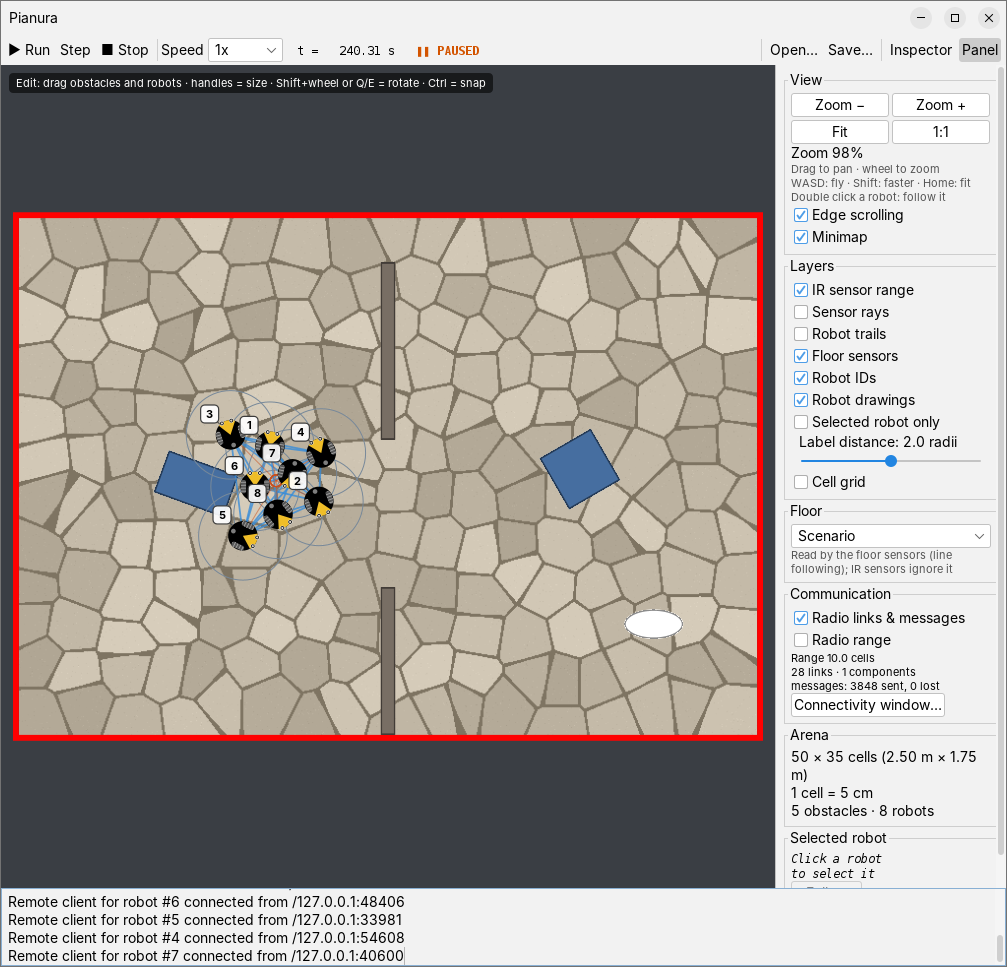
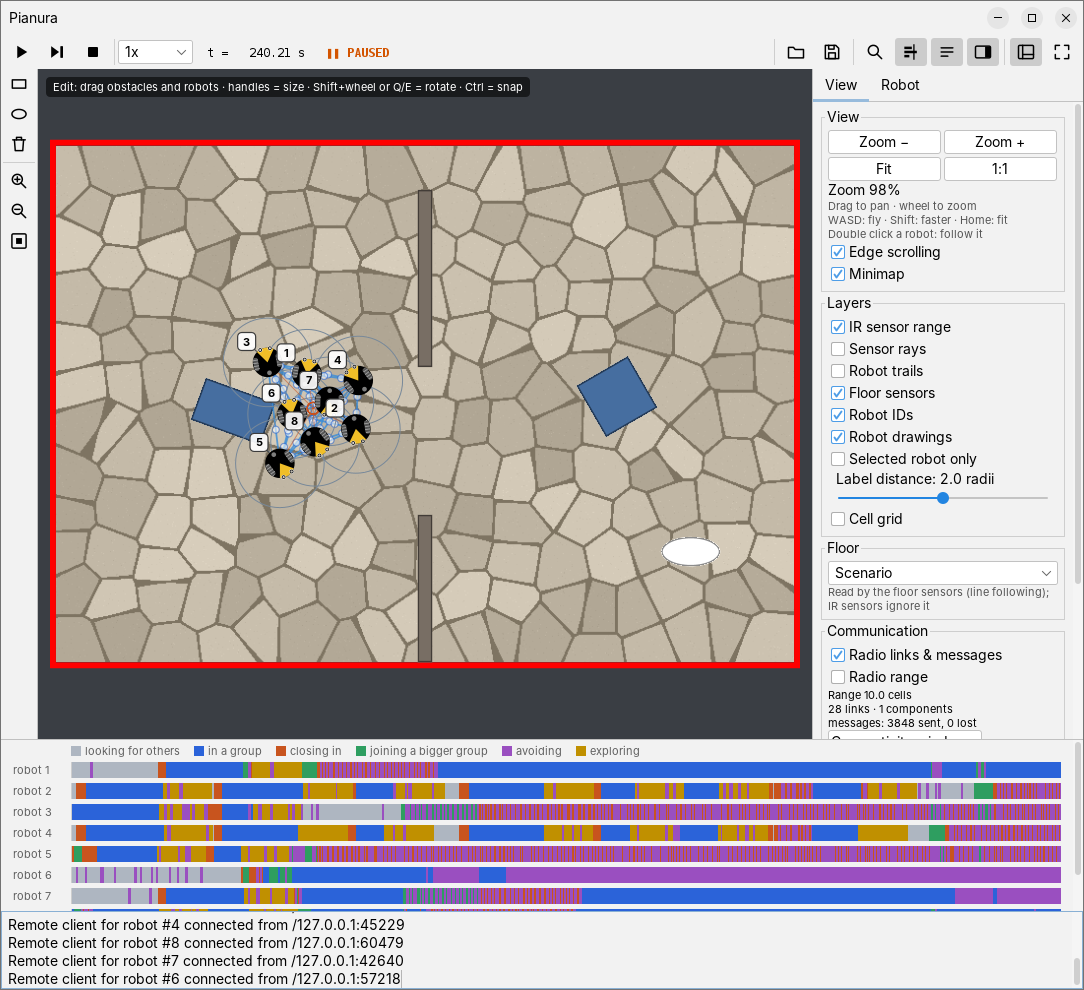
docs: the window's views and the start screen, new screenshots
README: Quick start with the start screen, a new section on the window
(icons, Studio and Focus views, timeline), scene files and the sandbox;
examples/README: running, and the sandbox row. Screenshots taken again
with the new window, plus start.png, studio.png and focus.png.

diff --git a/README.md b/README.md
@@ -71,17 +71,21 @@ cd pianura-sim
 ./gradlew run
 ```
 
-This opens the example `obstacles`: nine robots avoiding rectangular and oval obstacles.
-Examples open paused: arrange the scene if you like, then press **Run** (or Space).
+This opens the start screen: the scenes and examples you opened last, your favourites, all the
+examples, and the scene files of a folder of yours. Click one to open it; the **Home** button
+of a simulation brings you back. Simulations open paused: arrange the scene if you like, then
+press **Run** (or Space).
 
-To run another example, pass its name:
+![The start screen: recent items, favourites, examples, my scenes](docs/img/start.png)
+
+To start one example directly, pass its name:
 
 ```bash
 ./gradlew run -Pexample=braitenberg
 ```
 
 The available examples are `timedmotion`, `obstacles`, `rooms`, `linefollowing`, `remote`,
-`radio`, `largemap`, `braitenberg`, `planning` and `brains`. [`examples/README.md`](examples/README.md) says what
+`radio`, `largemap`, `braitenberg`, `planning`, `brains` and `sandbox`. [`examples/README.md`](examples/README.md) says what
 each one shows, with screenshots; the controllers they use are described in
 [`algorithms/README.md`](algorithms/README.md).
 
@@ -101,12 +105,38 @@ pianura-<version>.jar` (Java 21 or later, nothing else). To build it yourself:
 
 ```bash
 ./gradlew :examples:runnableJar          # writes build/pianura.jar (about 1.3 MB)
-java -jar build/pianura.jar              # a small window to pick an example
+java -jar build/pianura.jar              # the start screen
 java -jar build/pianura.jar planning     # one example directly; --list prints them all
 ```
 
 The jar holds Pianura, the algorithms, the examples and FlatLaf; `-Dpianura.laf=...` works
 here too (`java -Dpianura.laf=flat-dark -jar build/pianura.jar`).
+
+---
+
+## The window
+
+The buttons carry icons; their names and keyboard shortcuts appear when the pointer rests on
+them. The same simulation can be shown in two views, switched from the right end of the
+toolbar or with **F**:
+
+- **Studio**, to build and tune. Around the arena: the toolbar (run or pause with Space, step
+  with the right arrow, stop, speed, time; open and save a scene), tools on the left to add and
+  delete obstacles and to zoom, a side panel with the view options and the selected robot
+  (state, body, watched values), and at the bottom the timeline and the log. Each part can be
+  hidden from the toolbar.
+- **Focus**, to show. The arena takes the whole window and the controls float over it: run,
+  step and speed at the bottom, time at the top left, layers at the top right, a card that
+  follows the selected robot. `sim.setCaption("...")` adds a sentence that explains what is
+  going on, and `sim.setView(WorkspaceView.FOCUS)` starts in this view. **Esc** comes back.
+
+The **timeline** gives a lane to every robot that declares what it is doing with
+`robot.inspector().state("searching")`: coloured by state, from the start to now, it shows at a
+glance what each robot did and when. A click on a lane selects the robot.
+
+![The Studio view on the planning example: tools, the robot's panel, the timeline](docs/img/studio.png)
+
+![The Focus view: the arena and floating controls, with a caption](docs/img/focus.png)
 
 ---
 
@@ -288,9 +318,11 @@ public class Main {
 ### Scene files
 
 A scene is the stage without the actors: arena size and scale, obstacles, and where each
-robot stands (by id). Arrange it with the mouse, then **Save…** in the toolbar (Ctrl+S)
-writes it to a JSON file; **Open…** (Ctrl+O) loads one back, before the start or while
-paused, replacing the obstacles and moving the robots it lists. The file is short and can be
+robot stands (by id). Arrange it with the mouse (the tools on the left add and delete
+obstacles), then **Save** in the toolbar (Ctrl+S) writes it to a JSON file; **Open** (Ctrl+O)
+loads one back, before the start or while paused, replacing the obstacles and moving the robots
+it lists. The start screen lists the scenes saved and opened last, and opens a scene file in
+the example `sandbox`, with a robot that wanders wherever the file puts one. The file is short and can be
 edited by hand:
 
 ```json

diff --git a/examples/README.md b/examples/README.md
@@ -9,17 +9,18 @@ obstacles, robots) plus a `Main` that starts it. The robot controllers are in
 From the repository root:
 
 ```bash
-./gradlew run                       # obstacles, the default demo
-./gradlew run -Pexample=braitenberg # any other example, by name
+./gradlew run                       # the start screen: recent, favourites, all the examples
+./gradlew run -Pexample=braitenberg # one example directly, by name
 ```
 
-An unknown name stops the build with the list of the available ones. The same examples are
-in the runnable jar: `./gradlew :examples:runnableJar`, then `java -jar build/pianura.jar`
-opens a window to pick one (`java -jar build/pianura.jar <name>` starts it directly). A new
-example needs its line in `Launcher.EXAMPLES` too; a test checks it. Examples open paused:
-arrange the scene if you like, then press **Run** (or Space). **Save…** (Ctrl+S) keeps the
-arrangement in a file and **Open…** (Ctrl+O) brings it back, also in a later run of the same
-example; see [Scene files](../README.md#scene-files).
+An unknown name stops the build with the list of the available ones. The same goes for the
+runnable jar: `./gradlew :examples:runnableJar`, then `java -jar build/pianura.jar` opens the
+start screen and `java -jar build/pianura.jar <name>` one example. A new example needs its line
+in `Launcher.EXAMPLES` too (name, description, tag, and how to build its scenario for the
+picture); a test checks it. Examples open paused: arrange the scene if you like, then press
+**Run** (or Space). **Save** (Ctrl+S) keeps the arrangement in a file and **Open** (Ctrl+O)
+brings it back, also in a later run of the same example; see
+[Scene files](../README.md#scene-files).
 
 ## The examples
 
@@ -35,6 +36,7 @@ example; see [Scene files](../README.md#scene-files).
 | `braitenberg` | Five Braitenberg vehicles with trails on; each draws an arrow with its intention | `BraitenbergVehicle` | added 2026 |
 | `planning` | An RRT grows under your eyes, the simulation pauses when the path is found, then the robot follows it; the inspector opens by itself | `RrtPlanner` | added 2026 |
 | `brains` | One brain per robot: eight remote robots, each driven by a separate program (`clients/python/swarm.py`) that knows only its sensors and the radio; they gather in groups. `--args=12` for twelve robots | remote, `brain.py` | added 2026 |
+| `sandbox` | A scene of your own: an empty arena with one wandering robot, or a scene file (`--args=my-scene.json`) with a wandering robot wherever the file puts one. The start screen opens new scenes and scene files here | `IrAvoider` | added 2026 |
 
 | ![obstacles](../docs/img/obstacles.png) | ![braitenberg](../docs/img/braitenberg.png) |
 |---|---|
